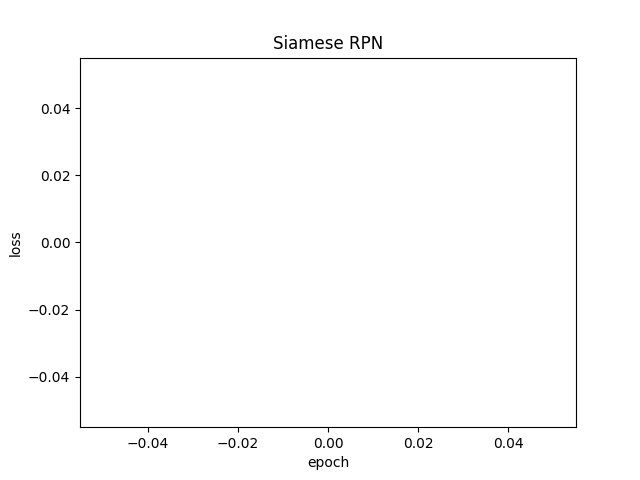
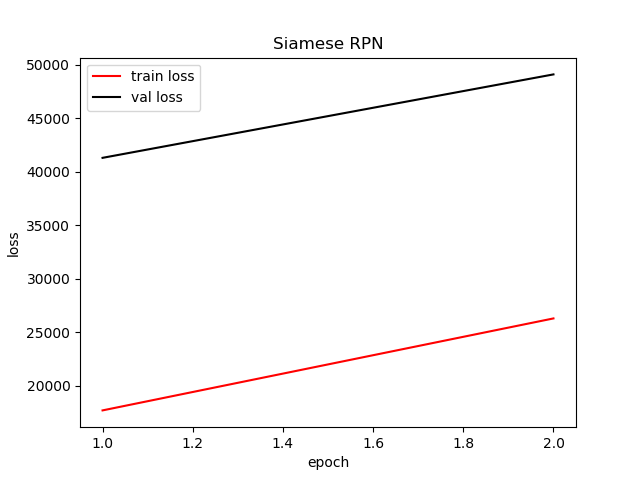
Update

diff --git a/train/data.py b/train/data.py
@@ -25,11 +25,11 @@ class TrainDataLoader(Dataset):
         self.ret              = {}
         self.count            = 0
         self.name             = name
-        self.anchors          = util.generate_anchors(  config.total_stride,
+        self.anchors          = util.generate_anchors(  config.anchor_total_stride,
                                                         config.anchor_base_size,
                                                         config.anchor_scales,
                                                         config.anchor_ratios,
-                                                        config.anchor_valid_scope) #centor
+                                                        config.score_size) #centor
 
     def get_transform_for_train(self):
         transform_list = []
@@ -120,12 +120,12 @@ class TrainDataLoader(Dataset):
 
         img_mean_d = tuple(map(int, detection_img.mean(axis=(0, 1))))
 
-        a_x = np.random.choice(range(-12,12))
-        a_x = a_x * s_x
-        a_x = a_x * 0.5
-        b_y = np.random.choice(range(-12,12))
-        b_y = b_y * s_x
-        b_y = b_y * 0.5
+        a_x_ = np.random.choice(range(-75,75))
+        a_x = a_x_ * s_x
+
+        b_y_ = np.random.choice(range(-75,75))
+        b_y = b_y_ * s_x
+
 
 
         instance_img, w_x, h_x, scale_x = self.get_instance_image(  detection_img, d,
@@ -156,9 +156,10 @@ class TrainDataLoader(Dataset):
         cx = cx_o + np.random.randint(- config.max_translate, config.max_translate + 1)
         gt_cx = cx_o - cx
         gt_cy = cy_o - cy'''
+        #print('[a_x_, b_y_, w, h]', [a_x_, b_y_, w, h])
 
         self.ret['instance_img'] = instance_img
-        self.ret['cx, cy, w, h'] = [a_x, b_y, w, h]
+        self.ret['cx, cy, w, h'] = [a_x_*0.15, b_y_*0.15, w, h]
 
 
     def get_exemplar_image(self, img, bbox, size_z, context_amount, img_mean=None):
@@ -252,7 +253,7 @@ class TrainDataLoader(Dataset):
 
     def compute_target(self, anchors, box):
         regression_target = self.box_transform(anchors, box)
-
+        anchors[0] = box
         iou = self.compute_iou(anchors, box).flatten()
         #print(np.max(iou))
         pos_index = np.where(iou > config.pos_threshold)[0]
@@ -262,6 +263,11 @@ class TrainDataLoader(Dataset):
         #print('label[pos_index]', len(label[pos_index]))
         label[neg_index] = 0
         #print('label[neg_index]', len(label[neg_index]))
+        #max_index = np.argsort(iou.flatten())[-20:]
+        boxes = anchors[pos_index]
+
+        #print('box', box)
+        #print('boxes', boxes)
 
         return regression_target, label
 

diff --git a/train/net.py b/train/net.py
@@ -40,7 +40,7 @@ class TrackerSiamRPN(Tracker):
             momentum     = config.momentum,
             weight_decay = config.weight_decay)
 
-        self.anchors     = util.generate_anchors(   config.total_stride,
+        self.anchors     = util.generate_anchors(   config.anchor_total_stride,
                                                     config.anchor_base_size,
                                                     config.anchor_scales,
                                                     config.anchor_ratios,
@@ -67,24 +67,23 @@ class TrackerSiamRPN(Tracker):
         cls_loss = rpn_cross_entropy_balance(   pred_conf,
                                                 conf_target,
                                                 config.num_pos,
-                                                config.num_neg)
-
-        '''self.anchors,
-        ohem_pos=config.ohem_pos,
-        ohem_neg=config.ohem_neg)'''
+                                                config.num_neg,
+                                                self.anchors,
+                                                ohem_pos=config.ohem_pos,
+                                                ohem_neg=config.ohem_neg)
 
         reg_loss = rpn_smoothL1(pred_offset,
                                 regression_target,
-                                conf_target)
-        '''config.num_pos,
-        ohem=config.ohem_reg)'''
+                                conf_target,
+                                config.num_pos,
+                                ohem=config.ohem_reg)
 
         loss = cls_loss + config.lamb * reg_loss
 
         if train:
             self.optimizer.zero_grad()
             loss.backward()
-            #torch.nn.utils.clip_grad_norm_(self.net.parameters(), config.clip)
+            torch.nn.utils.clip_grad_norm_(self.net.parameters(), config.clip)
             self.optimizer.step()
 
         return cls_loss, reg_loss, loss

diff --git a/train/loss.py b/train/loss.py
@@ -4,7 +4,7 @@ import numpy as np
 import torch.nn as nn
 import torch.nn.functional as F
 
-def rpn_cross_entropy(input, target):
+def rpn_cross_entropy_old(input, target):
     r"""
     :param input: (15x15x5,2)
     :param target: (15x15x5,)
@@ -16,7 +16,7 @@ def rpn_cross_entropy(input, target):
     return loss
 
 
-def rpn_cross_entropy_balance(input, target, num_pos, num_neg):
+def rpn_cross_entropy_balance_old(input, target, num_pos, num_neg):
     r"""
     :param input: (N,1125,2)
     :param target: (15x15x5,)
@@ -53,7 +53,7 @@ def rpn_cross_entropy_balance(input, target, num_pos, num_neg):
 #     return loss
 
 
-def rpn_smoothL1(input, target, label):
+def rpn_smoothL1_old(input, target, label):
     r'''
     :param input: torch.Size([1, 1125, 4])
     :param target: torch.Size([1, 1125, 4])
@@ -69,7 +69,7 @@ def rpn_smoothL1(input, target, label):
 
 
 
-'''def rpn_cross_entropy_balance(input, target, num_pos, num_neg, anchors, ohem_pos=None, ohem_neg=None):
+def rpn_cross_entropy_balance(input, target, num_pos, num_neg, anchors, ohem_pos=None, ohem_neg=None):
     r"""
     :param input: (N,1125,2)
     :param target: (15x15x5,)
@@ -142,10 +142,10 @@ def rpn_smoothL1(input, target, label):
 
 def rpn_smoothL1(input, target, label, num_pos=16, ohem=None):
 
-    :param input: torch.Size([1, 1125, 4])
+    ''':param input: torch.Size([1, 1125, 4])
     :param target: torch.Size([1, 1125, 4])
             label: (torch.Size([1, 1125]) pos neg or ignore
-    :return:
+    :return:'''
 
     cuda = torch.cuda.is_available()
     loss_all = []
@@ -177,4 +177,4 @@ def rpn_smoothL1(input, target, label, num_pos=16, ohem=None):
 
             loss_all.append(loss_bid.mean())
     final_loss = torch.stack(loss_all).mean()
-    return final_loss'''
+    return final_loss

diff --git a/train/util.py b/train/util.py
@@ -36,15 +36,24 @@ class Util(object):
 
         anchor = np.tile(anchor, score_size * score_size).reshape((-1, 4))
         # (5,4x225) to (225x5,4)
-        ori = - (score_size // 2) * total_stride
+
+        ori = - (score_size // 2) * total_stride # 8 * 8 = 64
+        #print('score_size', score_size)
+        #print('total_stride', total_stride)
+        #print('ori', ori)
+
         # the left displacement
         xx, yy = np.meshgrid([ori + total_stride * dx for dx in range(score_size)],
                              [ori + total_stride * dy for dy in range(score_size)])
+        #print('xx, yy ', xx, yy )
         # (15,15)
         xx, yy = np.tile(xx.flatten(), (anchor_num, 1)).flatten(), \
                  np.tile(yy.flatten(), (anchor_num, 1)).flatten()
         # (15,15) to (225,1) to (5,225) to (225x5,1)
+        #print('xx1, yy1', xx, yy )
+
         anchor[:, 0], anchor[:, 1] = xx.astype(np.float32), yy.astype(np.float32)
+        #print('anchor', anchor)
         return anchor
 
     # freeze layers

diff --git a/train/config.py b/train/config.py
@@ -4,10 +4,10 @@ class Config(object):
 
     '''config for train_siamrpn.py'''
     template_img_size  = 127
-    detection_img_size = 271
+    detection_img_size = 255
     epoches = 200
-    train_epoch_size = 9000
-    val_epoch_size = 100
+    train_epoch_size = 50
+    val_epoch_size = 10
 
     start_lr = 3e-2
     end_lr = 1e-5
@@ -29,9 +29,10 @@ class Config(object):
     out_feature = 19
     max_inter   = 80
     fix_former_3_layers = True
-    pretrained_model =  '/home/arbi/Загрузки/alexnet.pth' # '/Users/arbi/Desktop/alexnet.pth'
+    pretrained_model = '/Users/arbi/Desktop/alexnet.pth' # '/home/arbi/Загрузки/alexnet.pth'
 
     total_stride = 8
+    anchor_total_stride = total_stride
     anchor_base_size = 8
     anchor_scales = np.array([8, ])
     anchor_ratios = np.array([0.33, 0.5, 1, 2, 3])

diff --git a/tracking/run_tracking.py b/tracking/run_tracking.py
@@ -9,9 +9,9 @@ parser = argparse.ArgumentParser(description='PyTorch SiameseRPN Tracking')
 
 parser.add_argument('--tracker_path', default='/home/arbi/desktop/GOT-10k', metavar='DIR',help='path to dataset')
 parser.add_argument('--experiment_name', default='default', metavar='DIR',help='path to weight')
-parser.add_argument('--net_path', default='../train/experiments/default/model/model_e1.pth', metavar='DIR',help='path to weight')
+parser.add_argument('--net_path', default='../train/experiments/default/model/model_e2.pth', metavar='DIR',help='path to weight')
 # ../train/experiments/default/model/model_e1.pth # ../model.pth #../siamrpn_7.pth
-# /Users/arbi/Desktop/val
+# /Users/arbi/Desktop # /home/arbi/desktop/GOT-10k
 parser.add_argument('--visualize', default=True, help='visualize')
 
 args = parser.parse_args()

diff --git a/train/train_siamrpn.py b/train/train_siamrpn.py
@@ -52,7 +52,7 @@ def main():
 
     train_data  = TrainDataLoader(seq_dataset, name)
     train_loader = DataLoader(  dataset    = train_data,
-                                batch_size = 32,
+                                batch_size = 64,
                                 shuffle    = True,
                                 num_workers= 16,
                                 pin_memory = True)
@@ -76,7 +76,7 @@ def main():
 
     val_data  = TrainDataLoader(seq_dataset_val, name)
     val_loader = DataLoader(  dataset    = val_data,
-                                batch_size = 32,
+                                batch_size = 64,
                                 shuffle    = False,
                                 num_workers= 16,
                                 pin_memory = True)
